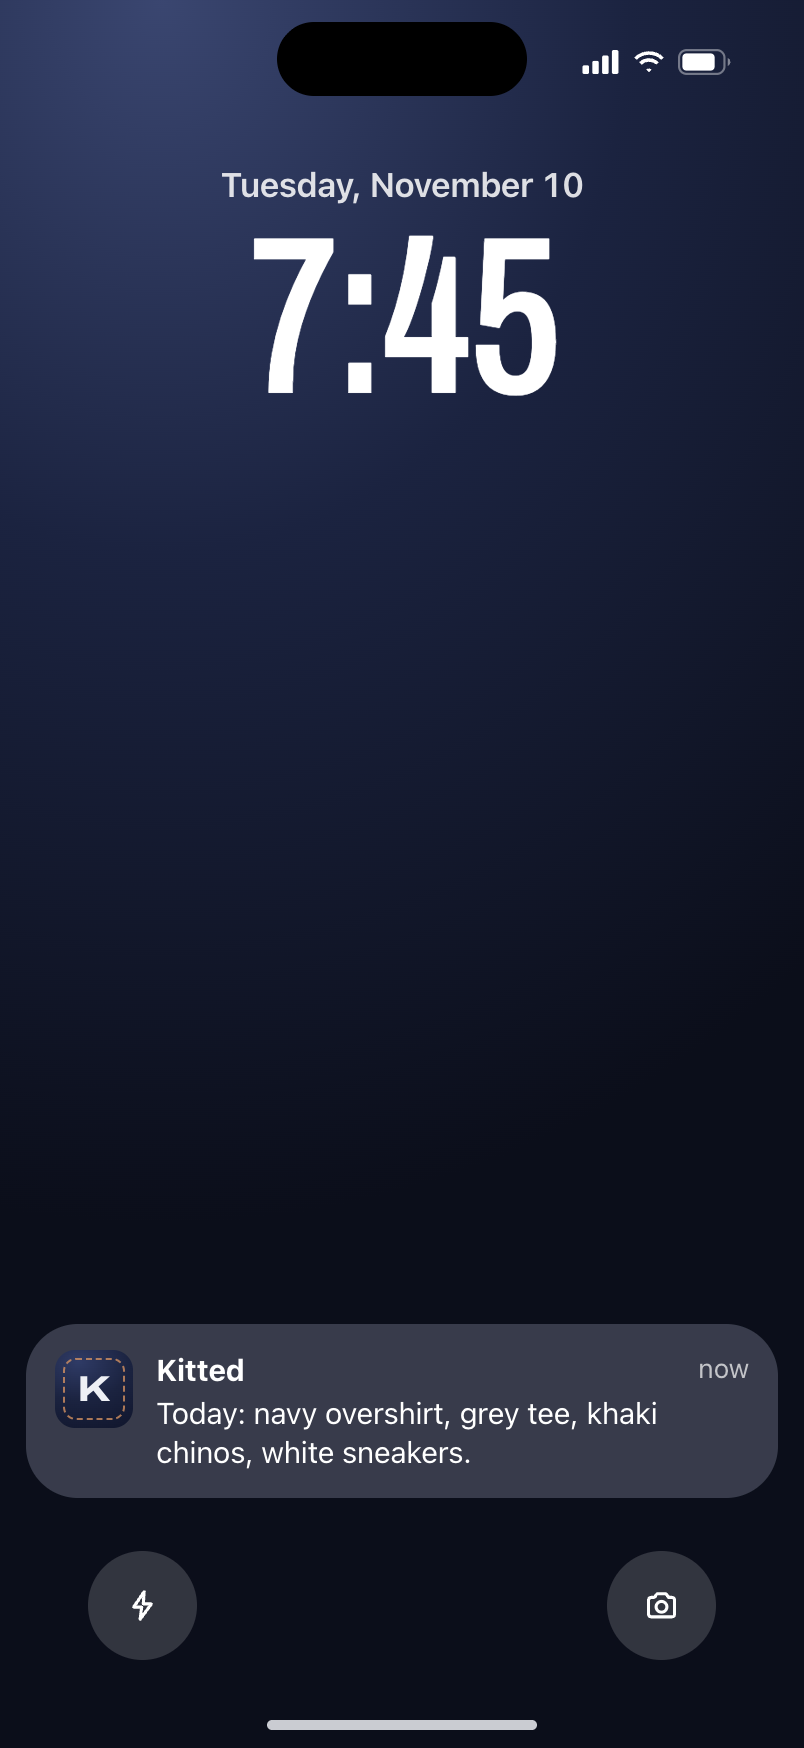
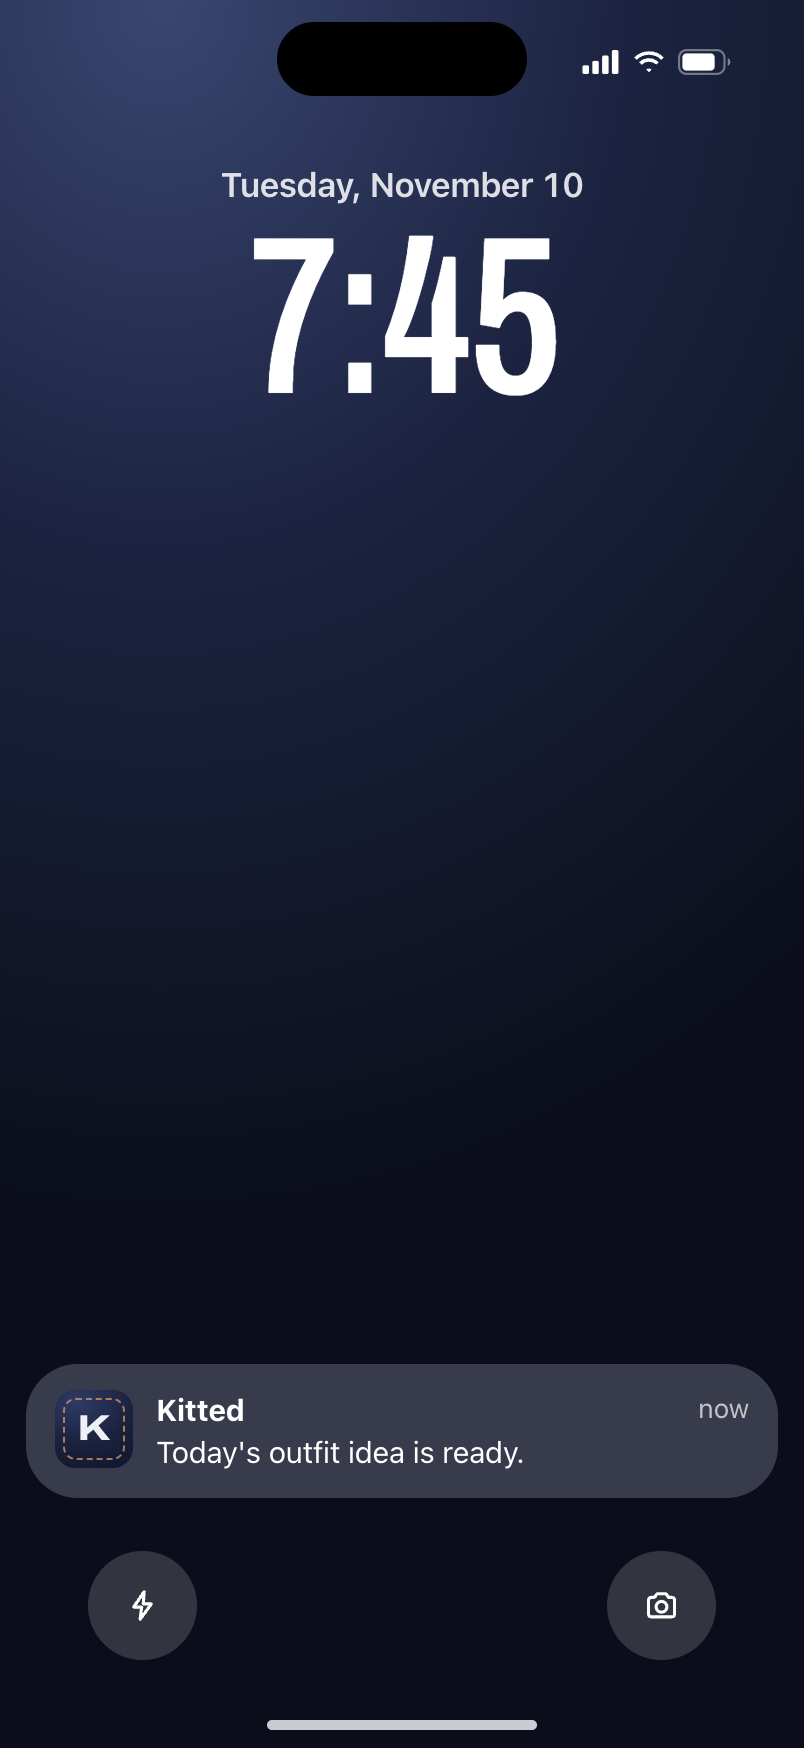
T53 design round 4: the daily nudge never lists pieces ('Today's outfit idea is ready.'); Fit check ready after a wipe

Changed region(s): [[0.0311, 0.7414, 0.9639, 0.865]]

diff --git a/tasks/T53/design.html b/tasks/T53/design.html
@@ -629,7 +629,7 @@ h1.board-title em{font-style:normal;font-stretch:72%;font-weight:500;color:var(-
             <div class="locktime">7:45</div>
           </div>
           <div class="t53-lockstack">
-            <div class="notif"><span class="nic"><span>K</span></span><div><div class="nh"><b>Kitted</b><span>now</span></div><p>Today: navy overshirt, grey tee, khaki chinos, white sneakers.</p></div></div>
+            <div class="notif"><span class="nic"><span>K</span></span><div><div class="nh"><b>Kitted</b><span>now</span></div><p>Today's outfit idea is ready.</p></div></div>
           </div>
           <div style="position:absolute;left:44px;right:44px;bottom:44px;display:flex;justify-content:space-between">
             <span class="circ glass" style="width:54.5px;height:54.5px"><svg class="ic s"><use href="#i-flash"/></svg></span>
@@ -637,7 +637,7 @@ h1.board-title em{font-style:normal;font-stretch:72%;font-weight:500;color:var(-
           </div>
         </div>
       </div>
-      <figcaption><b>The daily nudge <small>PHONE 7</small></b><span>At most one a day, 15 minutes before his get-dressed time (7:45 for 8:00), with the default sound. iOS draws it: the header is the app name, there's no title. Shown: the next nudge once Kit can suggest outfits; it names the pieces on that day's morning card. A tap opens Stylist at today's card. Always dark here (a preview of iOS).</span><span><b style="font-size:12.5px">The other lines it can carry instead (one per day, never together):</b><br>"Today's outfit idea is ready." · a later queued day, once Kit can suggest.<br>"Your closet's big enough now: here's today's idea." · the first day Kit can suggest, once ever.<br>"Check today's fit. Each one teaches me your closet." · every day before Kit can suggest.</span></figcaption>
+      <figcaption><b>The daily nudge <small>PHONE 7</small></b><span>At most one a day, 15 minutes before his get-dressed time (7:45 for 8:00), with the default sound. iOS draws it: the header is the app name, there's no title. Shown: every day's line once Kit can suggest outfits. It never lists the pieces; the card it opens shows the outfit. A tap opens Stylist at today's card. Always dark here (a preview of iOS).</span><span><b style="font-size:12.5px">The other lines it can carry instead (one per day, never together):</b><br>"Check today's fit. Each one teaches me your closet." · every day before Kit can suggest.<br>"Your closet's big enough now: here's today's idea." · the first day Kit can suggest, once ever.</span></figcaption>
     </figure>
 
     <!-- 8 · You → Notifications, on -->

diff --git a/tasks/T53/DESIGN.md b/tasks/T53/DESIGN.md
@@ -16,7 +16,7 @@ After his first scored fit, Kit asks in the chat what time he usually gets dress
 - **You → Notifications** is a page pushed from the `Notifications` row on You (`app/(tabs)/you/notifications.tsx`; the row itself belongs to T34, `specs/setup-and-you.md` SY1). It has the native header "Notifications" and the system Back button (VoiceOver "You"). The tab bar stays, with You selected. He leaves with Back or a swipe from the left edge.
 - **What the switches show** (phones 8–10 and 16):
   - **Daily outfit idea** shows on only when all three hold: `notify.idea` is saved on, iOS allows notifications for Kitted, and the nudges aren't paused waiting for the comeback answer (settled, Q1). Otherwise it shows off and the time row is hidden: that's phone 9. **`notify.idea` is the source of truth, and unset reads off** for this switch (settled, critic round 2): `Send me ideas`, and the switch turned on, write it on *before* asking iOS, so Don't Allow still leaves phone 10 greyed on and coming back from iOS Settings schedules; `No thanks` (on the ask or the comeback) writes it off; "Delete all my data" clears it, so it reads off again even though iOS keeps its own answer through a wipe.
-  - **Fit check ready** shows on when iOS allows notifications and `notify.ready` isn't saved off ("on by default once notifications are allowed", spec NT3). Before iOS has allowed them, it shows off.
+  - **Fit check ready** shows on when iOS allows notifications and `notify.ready` isn't saved off ("on by default once notifications are allowed", spec NT3). Before iOS has allowed them, it shows off. **After "Delete all my data"** it stays as iOS left it (technical default): the wipe clears `notify.ready`, which reads on, and iOS keeps its own answer, so with iOS allowing it stays on and can fire before Kit's ask comes back; with iOS not allowing it reads off. No change to the wipe.
   - On phone 10 (iOS has them off), both greyed switches show their saved values: `notify.idea` as saved, `notify.ready` on unless saved off.
   - *Change from today:* `prefs.ts` reads an unset `notify.idea` as on (`parseSwitch`, "Unset means on"), which would show phone 8 to someone who was never asked; for this switch it now reads off.
 
@@ -83,11 +83,10 @@ Top to bottom, in VoiceOver's reading order (the thread above is as built: his f
 iOS draws this; Kitted writes only the body line. **At most one a day** (the founder, Nov 9). The frame shows one nudge on the lock screen; the other lines it can carry instead are listed as text in the caption beside it, never drawn together.
 - Header: the app name "Kitted" and the time (iOS's). **No title** (spec NT2).
 - Body, one of:
-  - "Today: navy overshirt, grey tee, khaki chinos, white sneakers." (spec NT2 `Today: {item1}, {item2}, {item3}, {item4}.`, lowercase piece names, as many as the outfit has; here the spec's example) · the next nudge, once Kit can suggest outfits. It names the pieces on that day's morning card. **This is the one drawn**, at 7:45 (for 8:00).
-  - The other three are in the caption only:
-    - "Today's outfit idea is ready." (spec) · the later queued days, once Kit can suggest.
-    - "Your closet's big enough now: here's today's idea." (spec) · the first scheduled day on which Kit can suggest, once ever.
+  - "Today's outfit idea is ready." (spec NT2, NT2.2) · every day once Kit can suggest outfits, after the one-time "big enough" day. **This is the one drawn**, at 7:45 (for 8:00). It never lists pieces or shows a score (the founder, Nov 9: a list of pieces "seems like a grocery list"); the card it opens shows the outfit.
+  - The other two are in the caption only:
     - "Check today's fit. Each one teaches me your closet." (spec) · every day while Kit can't suggest yet (empty closet, or fewer than two outfits that work).
+    - "Your closet's big enough now: here's today's idea." (spec) · the first scheduled day on which Kit can suggest, once ever.
 - Default sound. No badge, no image, no actions, no Time Sensitive.
 - VoiceOver: iOS's own ("Kitted, {body}").
 - tap: opens Kitted at the Stylist tab, scrolled to today's card (posted then if it isn't yet). A tap on an older day's nudge opens today's card too.
@@ -194,8 +193,7 @@ Every string he reads in this task. No NEW strings: every word is the spec's, an
 - "No thanks" · spec; `en.ts` `notif.ask.no`
 - "Done. Your first idea lands {tomorrow|today} at {time}." · spec NT1 (`notif.ask.done` gains the today form)
 - "No problem. You can turn it on later in You → Notifications." · spec NT1 (replaces `notif.ask.later`)
-- "Today: {item1}, {item2}, {item3}, {item4}." · spec NT2; `en.ts` `push.idea` (as many pieces as the outfit has)
-- "Today's outfit idea is ready." · spec NT2
+- "Today's outfit idea is ready." · spec NT2, NT2.2
 - "Your closet's big enough now: here's today's idea." · spec NT2
 - "Check today's fit. Each one teaches me your closet." · spec NT2
 - "Your fit check is ready. {n} quick fixes inside." / "Your fit check is ready. 1 quick fix inside." · spec NT6; `en.ts` `push.ready` (kept)
@@ -214,7 +212,7 @@ Every string he reads in this task. No NEW strings: every word is the spec's, an
 - "Done. You can turn them on in You → Notifications." · spec NT4
 - Unchanged chrome in the frames: "Kit" (`common.who`), "Stylist" (`stylist.title`), "Ask Kit…" (`composer.placeholder`), the tab names (`tab.*`), the day stamp (`fmt.stampRecent`), the closet card (`plan.*`), the times (`ideaTimeLabel`, `fmt.am` / `fmt.pm`).
 - Apple's alert: Apple's words, not ours.
-- Removed with no replacement: `notifs.trial` "Trial ending" and `push.trial` (spec "Touches"). `notifs.ready` and `push.ready` stay (NT6).
+- Removed with no replacement: `notifs.trial` "Trial ending", `push.trial` (spec "Touches"), and `push.idea` "Today: {item1}, {item2}, {item3}, {item4}." (no nudge lists pieces, spec NT2.2). `notifs.ready` and `push.ready` stay (NT6).
 
 ## New parts
 - **`PickerRow` `disabled`** (`features/settings/SettingsList.tsx`): the time row greyed out on phone 10 (opacity 0.4, not tappable, VoiceOver "dimmed"). `ToggleRow` already has `disabled`; `PickerRow` doesn't.
@@ -323,5 +321,6 @@ Read: the spec change (8bf79970: NT3's header and third row, NT6, NT2.5), the ro
 1. **Kit's ask doesn't mention the heads-up.** Kit's ask ("I'll send you an outfit idea 15 minutes before.") names only the nudge, but one Allow also turns on Fit check ready (spec NT3: "on by default once notifications are allowed"). The You → Notifications header discloses it, and he can switch it off, so nothing breaks. If the founder wants the ask to say it too, that's a spec word change.
 
 ## Changes
+- **Round 4** · from the founder, on phone 7's "Today: navy overshirt, grey tee, khaki chinos, white sneakers.": "seems like a grocery list"; his pick: once Kit can suggest outfits, every day's nudge is "Today's outfit idea is ready." (spec NT2, NT2.2, da937cac) · phone 7's lock-screen line is now "Today's outfit idea is ready.", and its caption lists "Check today's fit. Each one teaches me your closet." and "Your closet's big enough now: here's today's idea."; the `Today: …` line is gone from DESIGN.md, and Words lists `push.idea` as removed. From the critic (round 3 polish): "What the switches show" records that after "Delete all my data" Fit check ready stays as iOS left it (technical default). PNGs re-shot: 07, light and dark.
 - **Round 3** · from the founder: "4 notifications at the same time is excessive. a max of one notification per day, unless they leave while the rating is processing. then we can tell them to check their rating out or someting." (spec NT3 and NT6 changed with his yes, 8bf79970, log #410) · phone 7 redrawn as one nudge on the lock screen, with the other three lines listed in its caption as text; phone 17 added: Fit check ready on the lock screen ("Your fit check is ready. 2 quick fixes inside."), its 1-fix and no-fix lines in the caption, a tap opening that check's card; phones 8, 9, 10 and 16 take NT3's new header and the third row, Fit check ready (phone 9 now draws the never-asked state, both switches off; phone 16 re-scrolled to show all three rows); "What the switches show" rewritten (the paused condition from Q1, `notify.idea` unset reads off, the Fit check ready rule); open questions 1–10 recorded as settled; Words updated (new header, `notifs.ready` and `push.ready` kept, the no-fix line). PNGs re-shot: 07, 08, 09, 10, 16, 17, light and dark.
 - **Round 2** · from the critic (round 1) · blocker: added "What the switch shows" (on only when saved on and iOS allows; off with no time row while Apple's prompt has never been shown, which looks like phone 9) and the matching line on phone 9. Polish: the button gaps written as 12 pt (time row to buttons) and 16 pt (wrapped rows), and the frames redrawn with 44 pt button boxes (phones 1, 2, 3, 6, 11, 12, 15); the footer's spacing corrected to 10 pt and Kit's name to 16 pt under the card; phone 3's spinner button at Send me ideas' real width (135.5 pt); phone 10 dims each row once and keeps the card at full opacity (frames 10 and 16 redrawn); phone 2's sliver of title noted as as-built; phone 15's `fullWidth` at AX sizes named as a change from today, for the ask and the comeback; the settings page's menu described (as in Settings → Appearance); phone 9's switch while Apple's prompt is up. Open questions 8–10 added from the critic's suggestions. PNGs re-shot: 01, 02, 03, 06, 10, 11, 12, 15, 16, light and dark.
